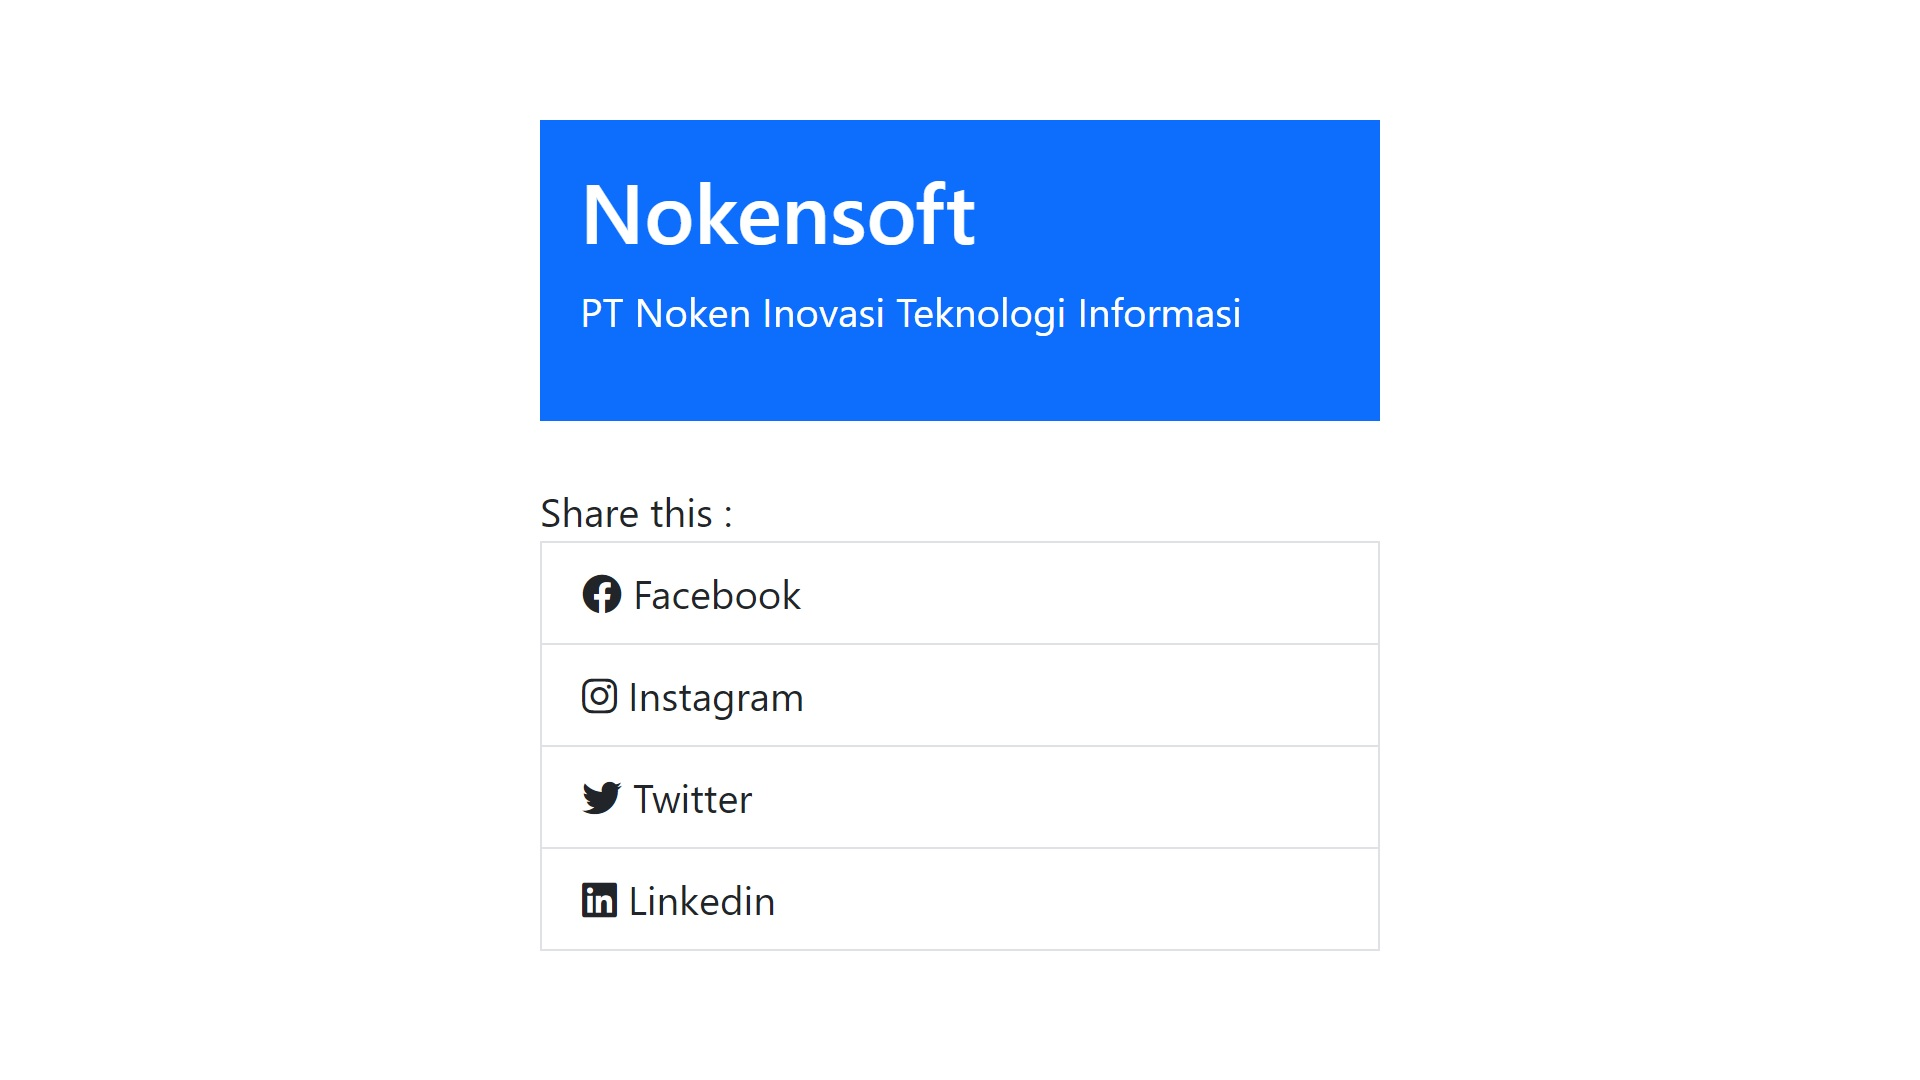
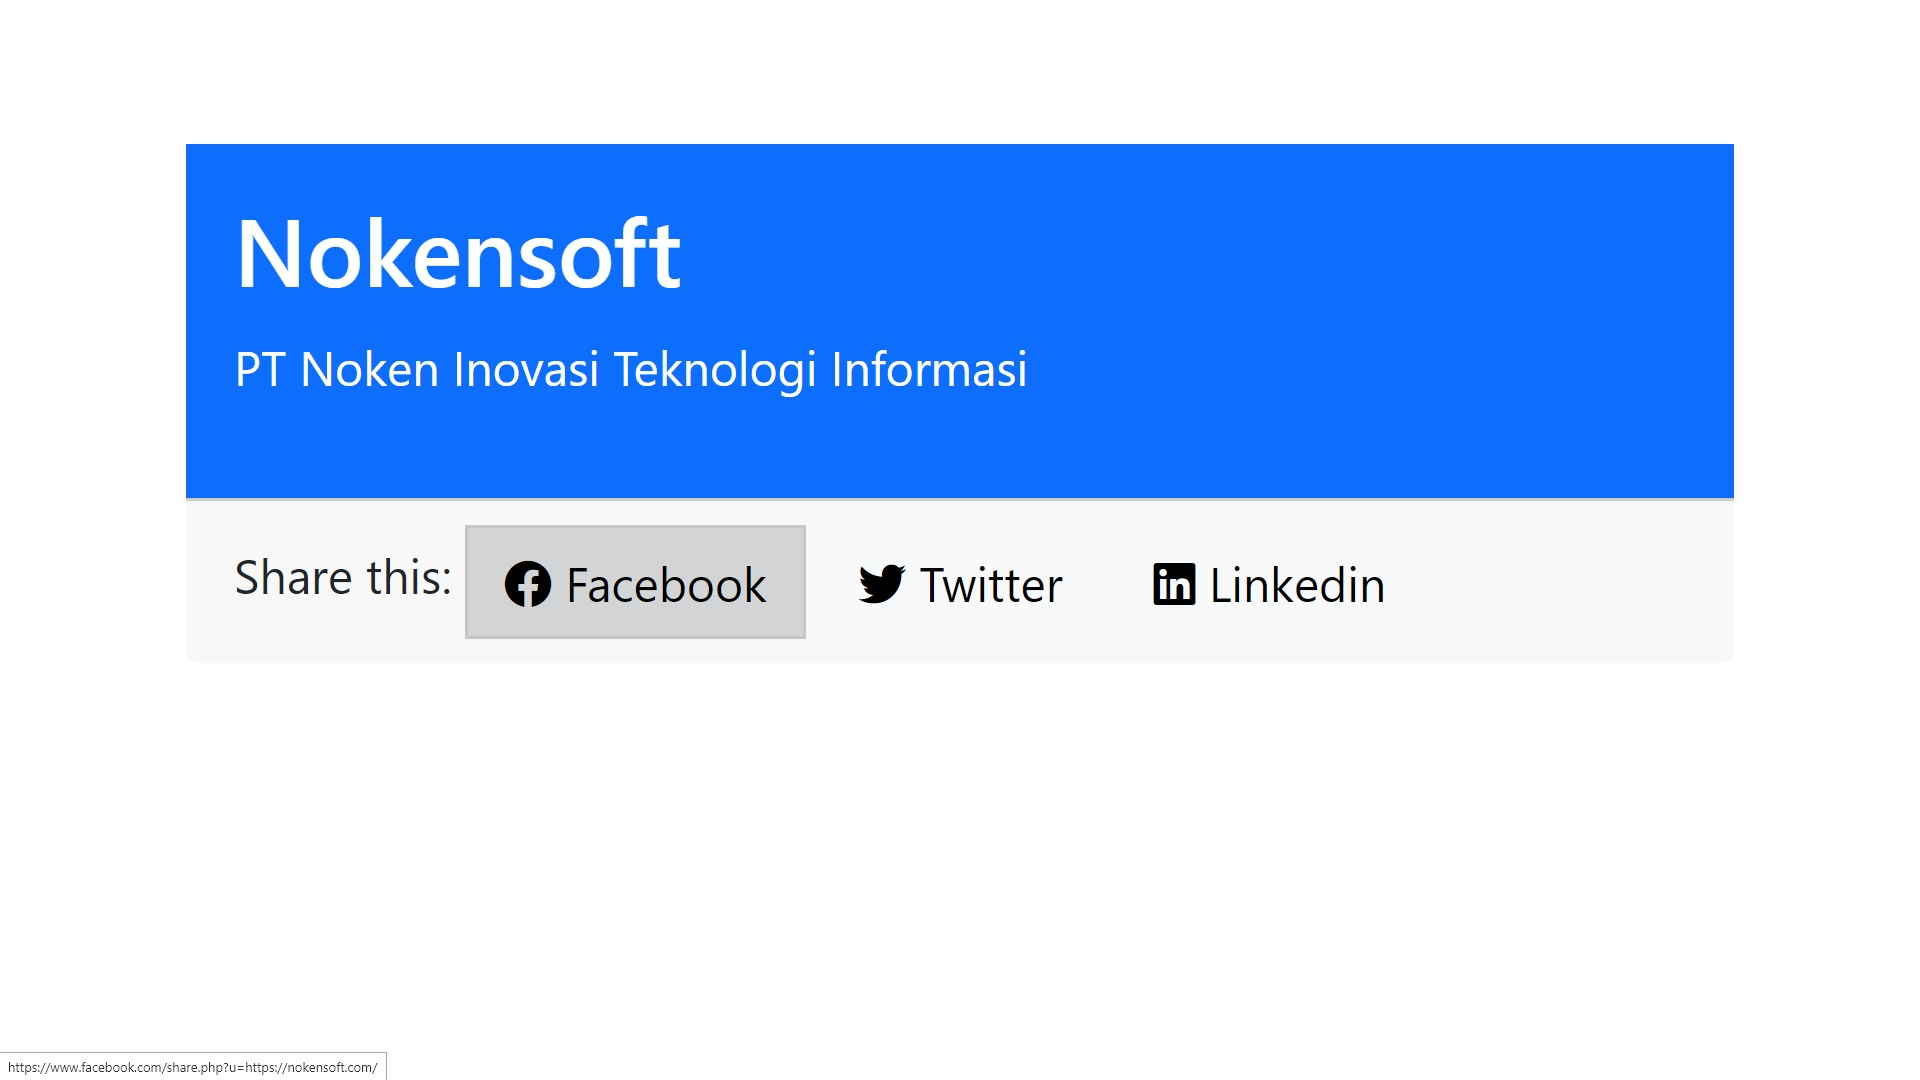
ADDED: card-footer and update screenshot

diff --git a/index.html b/index.html
@@ -3,10 +3,10 @@
 <head>
 	<title>Social Media Share Buttons</title>
 
-	<!-- bootstrap -->
+	<!-- Integrasi Framework CSS Bootstrap -->
 	<link href="https://cdn.jsdelivr.net/npm/bootstrap@5.3.0/dist/css/bootstrap.min.css" rel="stylesheet" integrity="sha384-9ndCyUaIbzAi2FUVXJi0CjmCapSmO7SnpJef0486qhLnuZ2cdeRhO02iuK6FUUVM" crossorigin="anonymous">
 
-	<!-- font awesome cdn -->
+	<!-- Integrasi Library Icon Font Awesomes -->
 	<link rel="stylesheet" href="https://cdnjs.cloudflare.com/ajax/libs/font-awesome/6.4.0/css/all.min.css" integrity="sha512-iecdLmaskl7CVkqkXNQ/ZH/XLlvWZOJyj7Yy7tcenmpD1ypASozpmT/E0iPtmFIB46ZmdtAc9eNBvH0H/ZpiBw==" crossorigin="anonymous" referrerpolicy="no-referrer" />
 
 </head>
@@ -20,29 +20,32 @@
                     <h1>Nokensoft</h1>
                     <p>PT Noken Inovasi Teknologi Informasi</p>
                 </div>
+                <div class="card-footer">
+                    Share this:
+                    <a href="https://facebook.com" class="facebook btn btn-light rounded-0">
+                        <i class="fa-brands fa-facebook"></i> Facebook
+                    </a>
+                    <a href="https://twitter.com" class="twitter btn btn-light rounded-0">
+                        <i class="fa-brands fa-twitter"></i> Twitter
+                    </a>
+                    <a href="https://linkedin.com" class="linkedin btn btn-light rounded-0">
+                        <i class="fa-brands fa-linkedin"></i> Linkedin
+                    </a>
+                </div>
             </div>
-            <div> Share this :  </div>
-        
-            <div class="list-group rounded-0">
-                <a href="https://facebook.com" class="facebook list-group-item list-group-item-action">
-                    <i class="fa-brands fa-facebook"></i> Facebook
-                </a>
-                <a href="https://twitter.com" class="twitter list-group-item list-group-item-action">
-                    <i class="fa-brands fa-twitter"></i> Twitter
-                </a>
-                <a href="https://linkedin.com" class="linkedin list-group-item list-group-item-action">
-                    <i class="fa-brands fa-linkedin"></i> Linkedin
-                </a>
-            </div>
+            <!-- .card end -->
         </div>
+        <!-- .col end -->
     </div>
+    <!-- .row end -->
 </div>
+<!-- .container end -->
 
 <script type="text/javascript">
 
+    // Declare content variables
 	const link = 'https://nokensoft.com/'; // encodeURI(window.location.href);
 	const msg = encodeURIComponent('PT. Noken Inovasi Teknologi Informasi');
-	const hashtags = encodeURIComponent('nokensoft', 'papuaitconsultant');
 	const title = encodeURIComponent(document.querySelector('title').textContent);
 
 	console.log([link, msg, title]);
